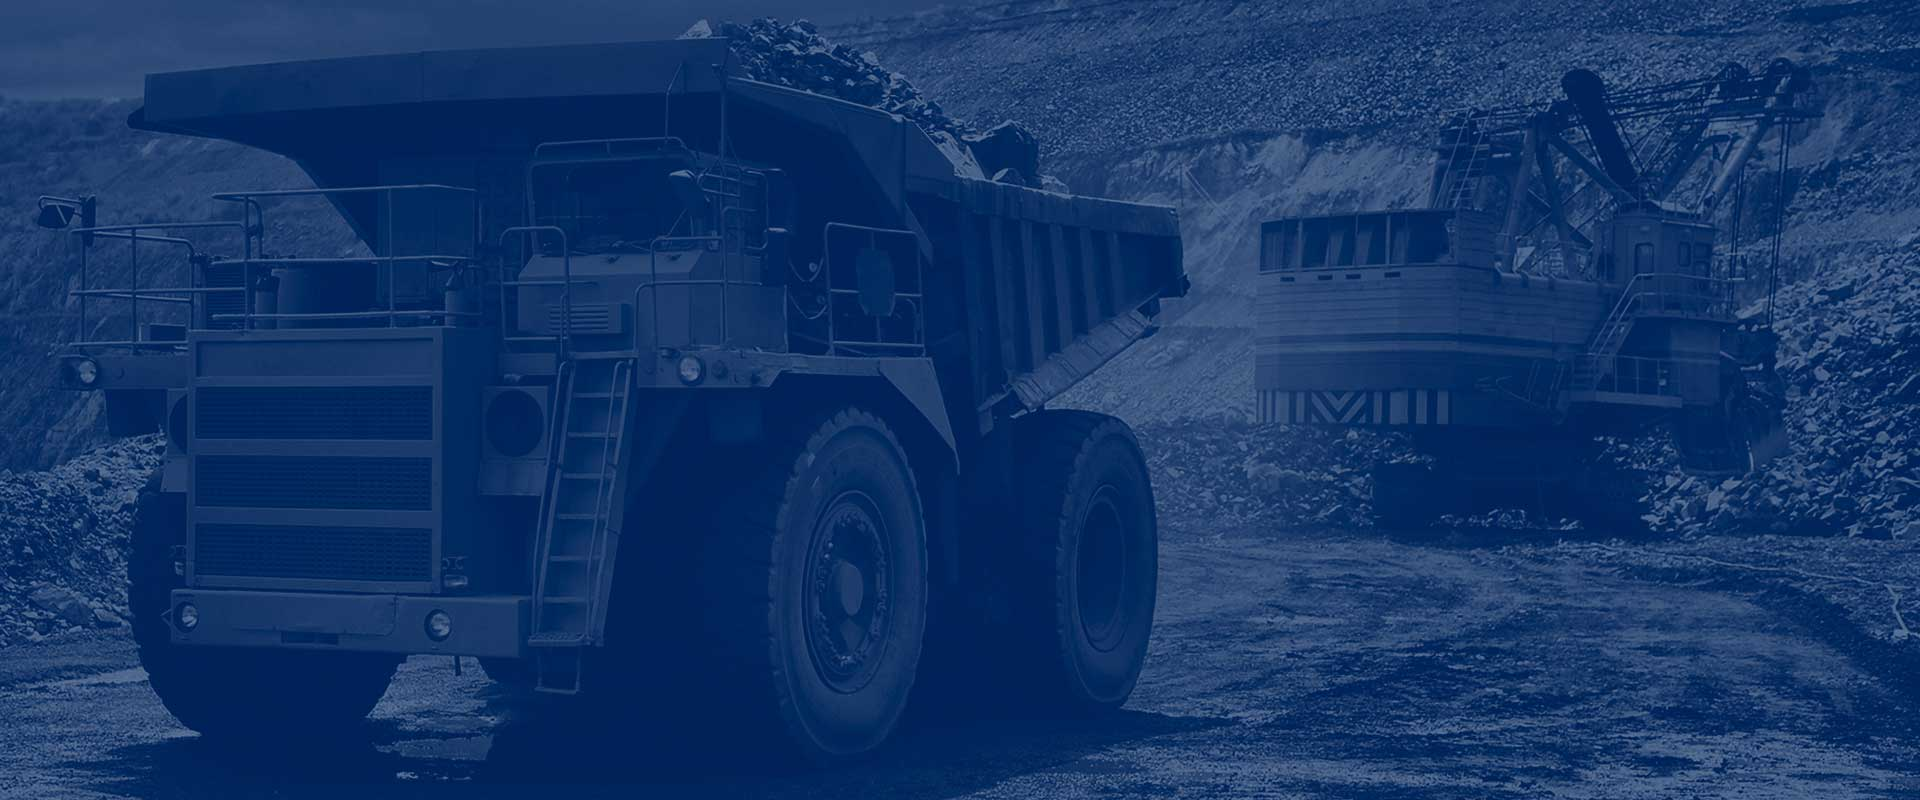
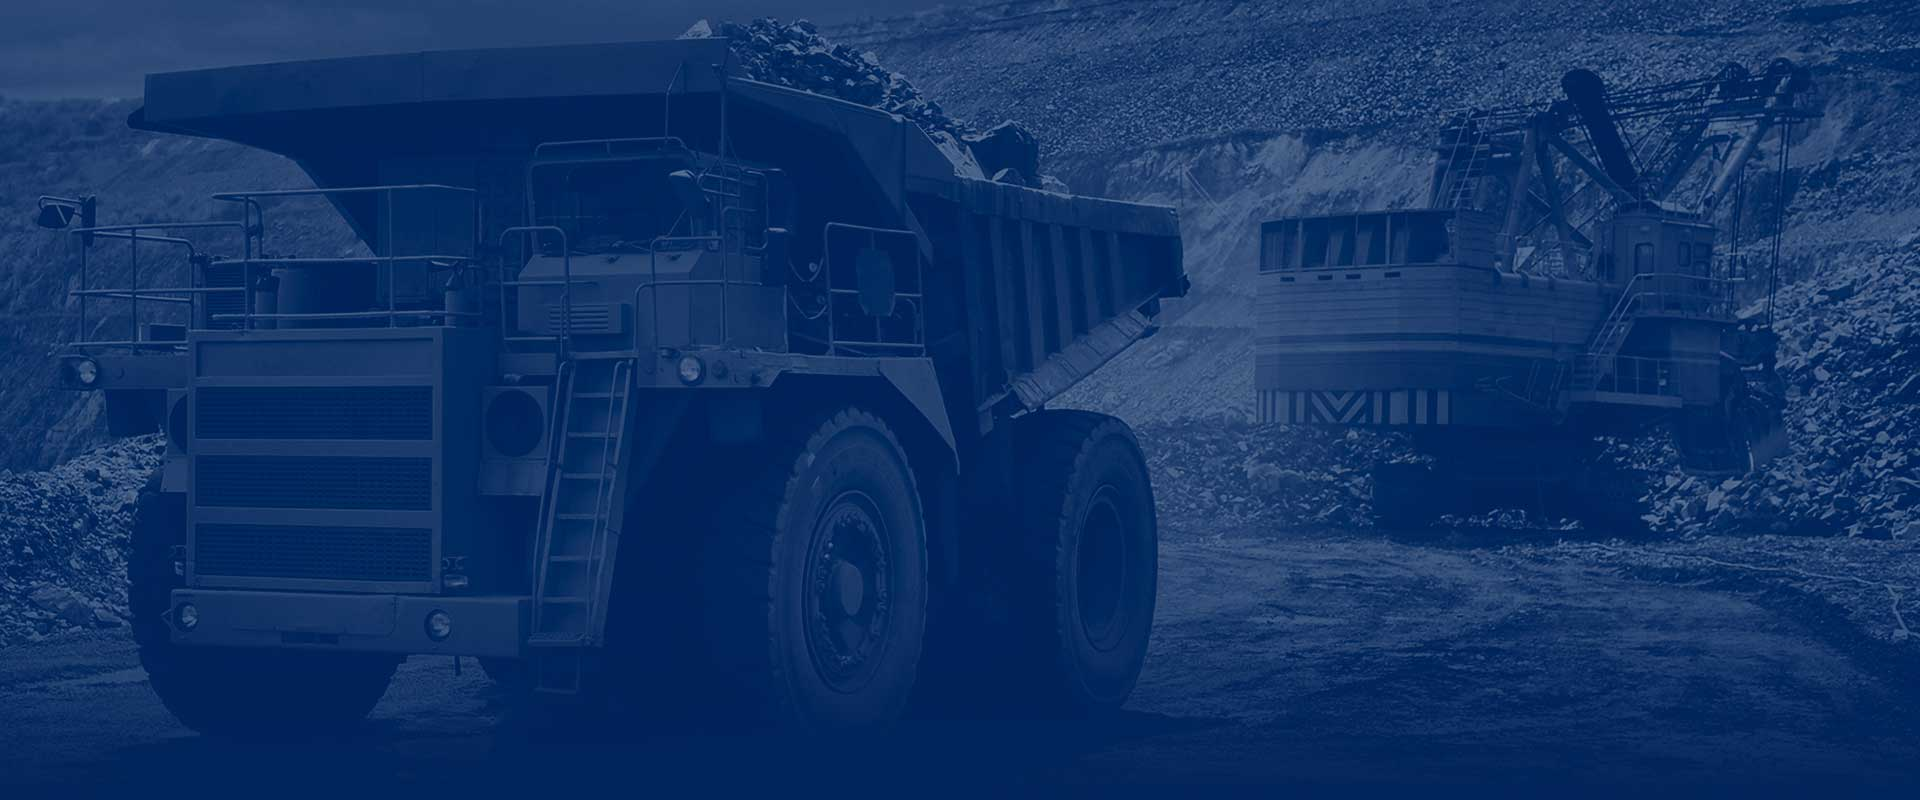
MEM-465 Search UI Updates

Changed region(s): [[0.5, 0.7812, 1.0, 1.0], [0.0, 0.8125, 0.125, 1.0], [0.1875, 0.8125, 0.2812, 0.9375]]

diff --git a/src/app/search/search.component.html b/src/app/search/search.component.html
@@ -120,11 +120,6 @@
                 <span class="srch-count">{{results.length}} Results Found</span>
             </div>
 
-            <section *ngIf="results && results.length < 1" >
-                <h2>No Results Found</h2>
-                <p class="mb-0">Sorry, we were unable to locate any results matching your search criteria.</p>
-            </section>
-
             <ul class="search-results list-group">
                 <li *ngFor="let item of results" class="list-group-item search-results-item">
                     <h3 class="search-results-item__project-name" 
@@ -142,12 +137,17 @@
                 </li>
             </ul>
 
+            <section class="search-results__no-results" *ngIf="results && results.length < 1" >
+                <h2>No Results Found</h2>
+                <p class="mb-0">Sorry, we were unable to locate any results matching your search criteria.</p>
+            </section>
+
+            <div class="search-results__footer mt-3" *ngIf="ranSearch && noMoreResults">
+                <button class="btn content-btn-alt">No More Results</button>
+            </div>
 
             <div class="search-results__footer mt-3" *ngIf="ranSearch && results && results.length > 0 && !noMoreResults">
                 <button class="btn content-btn-alt" (click)="loadMore(f.form.value)">Load More</button>
-            </div>
-            <div class="search-results__footer mt-3" *ngIf="ranSearch && noMoreResults">
-                <button class="btn content-btn-alt">No More Results</button>
             </div>
 
         </section>

diff --git a/src/app/search/search.component.scss b/src/app/search/search.component.scss
@@ -14,6 +14,15 @@
 @media (min-width: 992px) {
     .hero-banner {
         &__content {
+            padding-top: 6rem;
+            padding-bottom: 6rem;
+        }
+    }
+}
+
+@media (min-width: 1200px) {
+    .hero-banner {
+        &__content {
             padding-top: 9rem;
             padding-bottom: 6rem;
         }
@@ -90,7 +99,6 @@
         }
     }
     &__footer {
-        padding: 1rem 0;
         text-align: center;
     }
 
@@ -143,12 +151,18 @@
             line-height: 1.4rem;
             text-overflow: ellipsis;
             font-size: 1.2rem;
-            font-weight: 600;
-        }    
+            font-weight: 400;
+        }
+    }
+
+    &__no-results {
+        + .search-results__footer {
+            display: none;
+        }
     }
 }
 
-@media (min-width: 1200px) {
+@media (min-width: 768px) {
     .search-results {
         &-item {
             padding: 1.5rem;

diff --git a/src/assets/styles/components/hero-banner.scss b/src/assets/styles/components/hero-banner.scss
@@ -3,7 +3,7 @@
 .hero-banner {
     position: relative;
     height: 24rem;
-    background-color: rgba($header-bg, 1);
+    background-color: rgba(#00245a, 1);
     background-image: url("~assets/images/hero-banner-1.jpg");
     background-repeat: no-repeat;
     box-shadow: 0 0 4rem #00264d inset;
@@ -111,7 +111,7 @@
 @media (min-width: 768px) {
     .hero-banner {
         height: 28rem;
-        background-position: center;
+        background-position: center -2rem;
         background-size: 140%;
 
         &__content {
@@ -134,7 +134,6 @@
 
 @media (min-width: 992px) {
     .hero-banner {
-        background-position: center;
         background-size: 120%;
 
         h1 {
